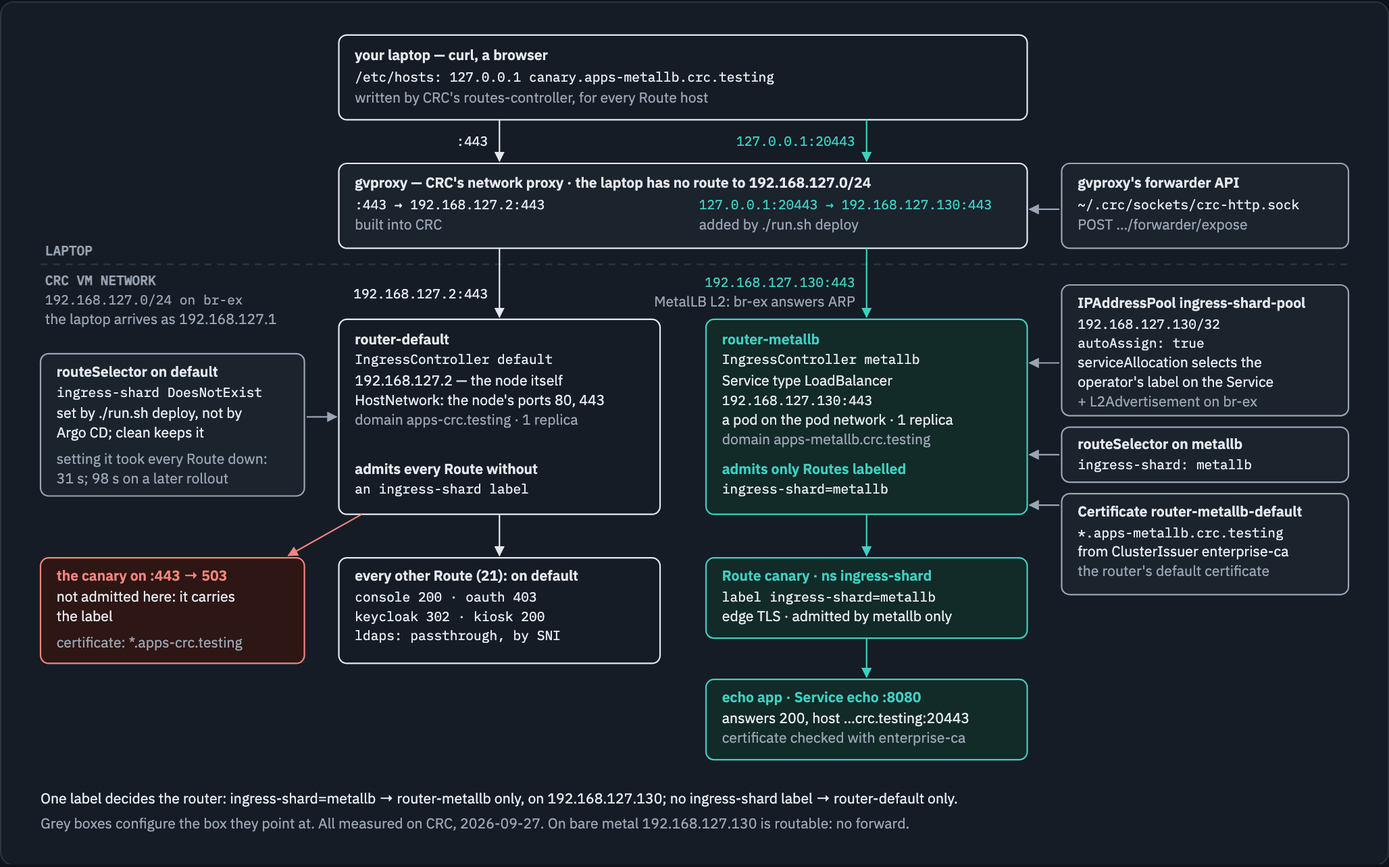
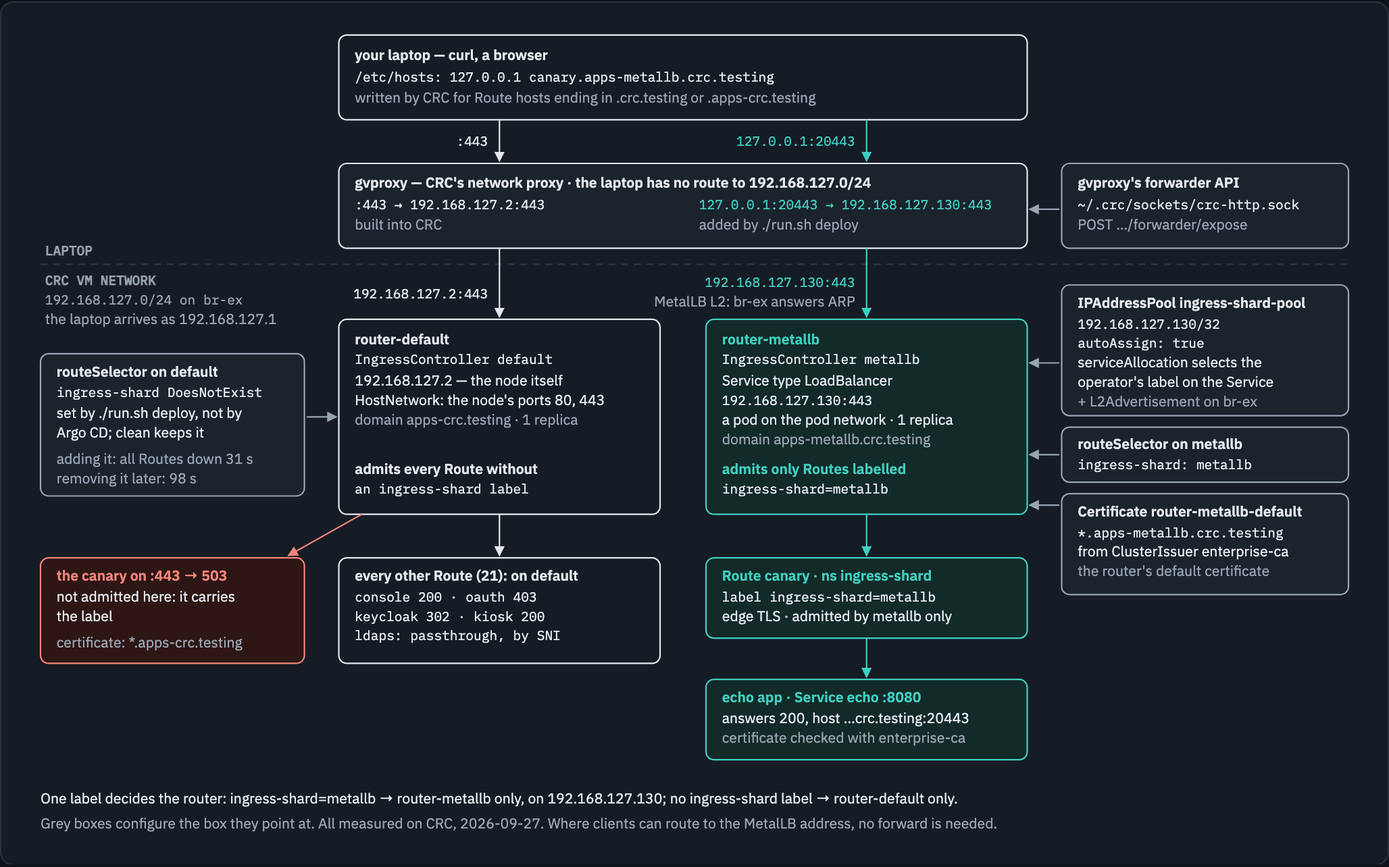
#17 review round 1: clean checks every step; forwards, preflight, verify contract
run.sh:
- clean: every delete and wait checked (checked/gone helpers); waits, bounded,
  for IngressController metallb, Service router-metallb and namespace
  ingress-shard to be gone; NotFound counts as gone; the final ok is reached
  only when every step succeeded (G-F1, C-F1)
- forward_target's error goes to stderr and every caller adds || exit 1: an
  unreadable forward list no longer reads as "no forward" (G-F2)
- forward_remove removes only this lab's forward (127.0.0.1:20443 ->
  192.168.127.130:443); another target is reported and left, exit 1 (C-F4)
- default_exclude refuses, naming them, while any Route carries ingress-shard;
  the exact-selector early return stays first (C-F2)
- deploy runs ns_ensure before the canary apply (G-F6)
- verify asserts the manifests' contract: pool autoAssign, serviceAllocation
  namespace and label selector, L2 pool and interface, the shard's domain,
  publishing strategy, routeSelector and default certificate (C-F5)
- one shard_target/shard_curl for deploy's canary_ready and verify: the CRC
  forward, or 192.168.127.130:443 directly without the socket (C-F9)

Manifests: namespace ingress-shard Prune=false (C-F3); the pool comment
describes label-based eligibility (C-F6); the IngressController comment no
longer says the default router is unchanged (G-F7).

README and figure: step 2 explains the selector its output shows, and what a
cluster that never ran this shows (G-F3/C-F8); troubleshooting no longer
[…]

Changed region(s): [[0.4047, 0.9346, 0.716, 0.9657], [0.3113, 0.0935, 0.5914, 0.1246], [0.0311, 0.5296, 0.1868, 0.5607]]

diff --git a/docs/diagrams/ingress-shard/source.html b/docs/diagrams/ingress-shard/source.html
@@ -68,14 +68,14 @@ a { color: var(--remote); }
     <h2>Which router serves which Route</h2>
     <figure>
       <div class="fig-scroll">
-<svg viewBox="0 0 1180 724" role="img" aria-label="The laptop reaches two routers through CRC&#x27;s network proxy, gvproxy, because it has no route to the CRC network 192.168.127.0/24. Port 443 is CRC&#x27;s own forward to 192.168.127.2, the node, where router-default of IngressController default listens on the node&#x27;s ports 80 and 443 (HostNetwork). 127.0.0.1:20443 is a forward that ./run.sh deploy adds through gvproxy&#x27;s forwarder API, to 192.168.127.130:443, which MetalLB announces at layer 2 on br-ex: the LoadBalancer Service of router-metallb, IngressController metallb, a pod on the pod network, domain apps-metallb.crc.testing. Beside each router, what configures it: on default, routeSelector ingress-shard DoesNotExist, set by ./run.sh deploy and not by Argo CD, kept by clean, and setting it took every Route down for 31 seconds, and for 98 seconds on a later rollout; on metallb, IPAddressPool ingress-shard-pool with the single address 192.168.127.130/32, autoAssign true, and a serviceAllocation that selects the label the ingress operator puts on the router&#x27;s Service, owning-ingresscontroller metallb, plus L2Advertisement ingress-shard-l2 on br-ex; routeSelector ingress-shard: metallb; and Certificate router-metallb-default for *.apps-metallb.crc.testing from ClusterIssuer enterprise-ca, the router&#x27;s default certificate. router-default admits every Route without an ingress-shard label: 21 Routes, among them console 200, oauth 403, keycloak 302, kiosk 200 and ldaps by SNI. The canary&#x27;s host sent to port 443 gets 503: the default router has not admitted it, and its certificate is for *.apps-crc.testing. router-metallb admits only Routes labelled ingress-shard=metallb: Route canary in namespace ingress-shard, edge TLS, admitted by metallb only, to the echo app, which answers 200. The laptop finds canary.apps-metallb.crc.testing as 127.0.0.1 in /etc/hosts, written by CRC&#x27;s routes-controller. All measured on CRC on 2026-09-27.">
+<svg viewBox="0 0 1180 724" role="img" aria-label="The laptop reaches two routers through CRC&#x27;s network proxy, gvproxy, because it has no route to the CRC network 192.168.127.0/24. Port 443 is CRC&#x27;s own forward to 192.168.127.2, the node, where router-default of IngressController default listens on the node&#x27;s ports 80 and 443 (HostNetwork). 127.0.0.1:20443 is a forward that ./run.sh deploy adds through gvproxy&#x27;s forwarder API, to 192.168.127.130:443, which MetalLB announces at layer 2 on br-ex: the LoadBalancer Service of router-metallb, IngressController metallb, a pod on the pod network, domain apps-metallb.crc.testing. Beside each router, what configures it: on default, routeSelector ingress-shard DoesNotExist, set by ./run.sh deploy and not by Argo CD, kept by clean, and adding it took every Route down for 31 seconds, removing it later for 98 seconds; on metallb, IPAddressPool ingress-shard-pool with the single address 192.168.127.130/32, autoAssign true, and a serviceAllocation that selects, by label, LoadBalancer Services in openshift-ingress carrying the label the ingress operator puts on the router&#x27;s Service, owning-ingresscontroller metallb, plus L2Advertisement ingress-shard-l2 on br-ex; routeSelector ingress-shard: metallb; and Certificate router-metallb-default for *.apps-metallb.crc.testing from ClusterIssuer enterprise-ca, the router&#x27;s default certificate. router-default admits every Route without an ingress-shard label: 21 Routes, among them console 200, oauth 403, keycloak 302, kiosk 200 and ldaps by SNI. The canary&#x27;s host sent to port 443 gets 503: the default router has not admitted it, and its certificate is for *.apps-crc.testing. router-metallb admits only Routes labelled ingress-shard=metallb: Route canary in namespace ingress-shard, edge TLS, admitted by metallb only, to the echo app, which answers 200. The laptop finds canary.apps-metallb.crc.testing as 127.0.0.1 in /etc/hosts, written by CRC&#x27;s routes-controller for Route hosts ending in .crc.testing or .apps-crc.testing. All measured on CRC on 2026-09-27.">
   <defs><marker id="s1" viewBox="0 0 10 10" refX="9" refY="5" markerWidth="7" markerHeight="7" orient="auto-start-reverse"><path d="M0,0 L10,5 L0,10 z" fill="currentColor"/></marker><marker id="s1t" viewBox="0 0 10 10" refX="9" refY="5" markerWidth="7" markerHeight="7" orient="auto-start-reverse"><path d="M0,0 L10,5 L0,10 z" fill="var(--remote)"/></marker><marker id="s1g" viewBox="0 0 10 10" refX="9" refY="5" markerWidth="7" markerHeight="7" orient="auto-start-reverse"><path d="M0,0 L10,5 L0,10 z" fill="var(--gap)"/></marker><marker id="s1n" viewBox="0 0 10 10" refX="9" refY="5" markerWidth="7" markerHeight="7" orient="auto-start-reverse"><path d="M0,0 L10,5 L0,10 z" fill="var(--none)"/></marker></defs>
   <g font-family="IBM Plex Sans, sans-serif" font-size="12.5" fill="currentColor">
 <!-- the laptop -->
 <rect x="280" y="14" width="600" height="74" rx="7" fill="none" stroke="currentColor" stroke-width="1.3"/>
 <text x="294" y="36" font-weight="600">your laptop — curl, a browser</text>
 <text x="294" y="55" font-family="IBM Plex Mono, monospace" font-size="11.5">/etc/hosts: 127.0.0.1 canary.apps-metallb.crc.testing</text>
-<text x="294" y="73" fill="var(--muted)">written by CRC&#x27;s routes-controller, for every Route host</text>
+<text x="294" y="73" fill="var(--muted)">written by CRC for Route hosts ending in .crc.testing or .apps-crc.testing</text>
 <line x1="420" y1="88" x2="420" y2="124" stroke="currentColor" stroke-width="1.3" marker-end="url(#s1)"/>
 <text x="410" y="111" text-anchor="end" font-family="IBM Plex Mono, monospace" font-size="11.5">:443</text>
 <line x1="740" y1="88" x2="740" y2="124" stroke="var(--remote)" stroke-width="1.3" marker-end="url(#s1t)"/>
@@ -118,8 +118,8 @@ a { color: var(--remote); }
 <text x="34" y="330" font-family="IBM Plex Mono, monospace" font-size="11.5">ingress-shard DoesNotExist</text>
 <text x="34" y="348">set by ./run.sh deploy, not by</text>
 <text x="34" y="365">Argo CD; clean keeps it</text>
-<text x="34" y="388" fill="var(--muted)">setting it took every Route down:</text>
-<text x="34" y="405" fill="var(--muted)">31 s; 98 s on a later rollout</text>
+<text x="34" y="388" fill="var(--muted)">adding it: all Routes down 31 s</text>
+<text x="34" y="405" fill="var(--muted)">removing it later: 98 s</text>
 <line x1="252" y1="347" x2="278" y2="347" stroke="var(--none)" stroke-width="1.3" marker-end="url(#s1n)"/>
 <!-- router-metallb -->
 <rect x="600" y="262" width="280" height="170" rx="7" fill="var(--remote-wash)" stroke="var(--remote)" stroke-width="1.3"/>
@@ -176,7 +176,7 @@ a { color: var(--remote); }
 <text x="614" y="631" fill="var(--muted)">certificate checked with enterprise-ca</text>
 <!-- takeaway -->
 <text x="20" y="684">One label decides the router: ingress-shard=metallb → router-metallb only, on 192.168.127.130; no ingress-shard label → router-default only.</text>
-<text x="20" y="706" fill="var(--muted)">Grey boxes configure the box they point at. All measured on CRC, 2026-09-27. On bare metal 192.168.127.130 is routable: no forward.</text>
+<text x="20" y="706" fill="var(--muted)">Grey boxes configure the box they point at. All measured on CRC, 2026-09-27. Where clients can route to the MetalLB address, no forward is needed.</text>
   </g>
 </svg>
       </div>

diff --git a/00-prerequisites/ingress-shard/README.md b/00-prerequisites/ingress-shard/README.md
@@ -1,7 +1,8 @@
 # A second router on a MetalLB address — an IngressController shard
 
 OpenShift's own router, the **default IngressController**, carries every Route on
-this cluster: the console, OAuth, Keycloak, the kiosk. On CRC it listens on the
+this cluster except the ones this page moves to the shard: the console, OAuth,
+Keycloak, the kiosk. On CRC it listens on the
 node's own ports 80 and 443 (`HostNetwork`).
 
 This page adds a **second router**, a *shard*, which:
@@ -27,8 +28,8 @@ CRC's network proxy.
 - how a router published as a `LoadBalancerService` gets a MetalLB address. The
   address is chosen by a pool, so nothing has to be added to a Service the
   ingress operator owns;
-- why a laptop running CRC needs a port forward to reach that address, and why
-  bare metal does not.
+- why a laptop running CRC needs a port forward to reach that address, and why a
+  client that can route to the address does not.
 
 ## Before you start
 
@@ -37,7 +38,7 @@ CRC's network proxy.
 - You are a cluster admin. This adds an `IngressController`, a MetalLB pool and
   a certificate in `openshift-ingress`, and changes the **default**
   IngressController (step 5).
-- **Step 5 takes every Route down for half a minute to a minute and a half** on a
+- **Step 5 takes every Route down for about half a minute** (31 s, measured) on a
   single-node cluster: the console, OAuth logins, Keycloak, every app. Pick a
   moment when nobody depends on them. `./run.sh deploy` does the same the first
   time. The clean-up does not undo step 5, on purpose ([Clean up](#clean-up)
@@ -51,7 +52,7 @@ CRC's network proxy.
 ## The picture
 
 <!-- markdownlint-disable MD033 -->
-<img alt="The laptop reaches two routers through CRC&#x27;s network proxy, gvproxy, because it has no route to the CRC network 192.168.127.0/24. Port 443 is CRC&#x27;s own forward to 192.168.127.2, the node, where router-default of IngressController default listens on the node&#x27;s ports 80 and 443 (HostNetwork). 127.0.0.1:20443 is a forward that ./run.sh deploy adds through gvproxy&#x27;s forwarder API, to 192.168.127.130:443, which MetalLB announces at layer 2 on br-ex: the LoadBalancer Service of router-metallb, IngressController metallb, a pod on the pod network, domain apps-metallb.crc.testing. Beside each router, what configures it: on default, routeSelector ingress-shard DoesNotExist, set by ./run.sh deploy and not by Argo CD, kept by clean, and setting it took every Route down for 31 seconds, and for 98 seconds on a later rollout; on metallb, IPAddressPool ingress-shard-pool with the single address 192.168.127.130/32, autoAssign true, and a serviceAllocation that selects the label the ingress operator puts on the router&#x27;s Service, owning-ingresscontroller metallb, plus L2Advertisement ingress-shard-l2 on br-ex; routeSelector ingress-shard: metallb; and Certificate router-metallb-default for *.apps-metallb.crc.testing from ClusterIssuer enterprise-ca, the router&#x27;s default certificate. router-default admits every Route without an ingress-shard label: 21 Routes, among them console 200, oauth 403, keycloak 302, kiosk 200 and ldaps by SNI. The canary&#x27;s host sent to port 443 gets 503: the default router has not admitted it, and its certificate is for *.apps-crc.testing. router-metallb admits only Routes labelled ingress-shard=metallb: Route canary in namespace ingress-shard, edge TLS, admitted by metallb only, to the echo app, which answers 200. The laptop finds canary.apps-metallb.crc.testing as 127.0.0.1 in /etc/hosts, written by CRC&#x27;s routes-controller. All measured on CRC on 2026-09-27." src="../../docs/diagrams/ingress-shard/shard.light.png">
+<img alt="The laptop reaches two routers through CRC&#x27;s network proxy, gvproxy, because it has no route to the CRC network 192.168.127.0/24. Port 443 is CRC&#x27;s own forward to 192.168.127.2, the node, where router-default of IngressController default listens on the node&#x27;s ports 80 and 443 (HostNetwork). 127.0.0.1:20443 is a forward that ./run.sh deploy adds through gvproxy&#x27;s forwarder API, to 192.168.127.130:443, which MetalLB announces at layer 2 on br-ex: the LoadBalancer Service of router-metallb, IngressController metallb, a pod on the pod network, domain apps-metallb.crc.testing. Beside each router, what configures it: on default, routeSelector ingress-shard DoesNotExist, set by ./run.sh deploy and not by Argo CD, kept by clean, and adding it took every Route down for 31 seconds, removing it later for 98 seconds; on metallb, IPAddressPool ingress-shard-pool with the single address 192.168.127.130/32, autoAssign true, and a serviceAllocation that selects, by label, LoadBalancer Services in openshift-ingress carrying the label the ingress operator puts on the router&#x27;s Service, owning-ingresscontroller metallb, plus L2Advertisement ingress-shard-l2 on br-ex; routeSelector ingress-shard: metallb; and Certificate router-metallb-default for *.apps-metallb.crc.testing from ClusterIssuer enterprise-ca, the router&#x27;s default certificate. router-default admits every Route without an ingress-shard label: 21 Routes, among them console 200, oauth 403, keycloak 302, kiosk 200 and ldaps by SNI. The canary&#x27;s host sent to port 443 gets 503: the default router has not admitted it, and its certificate is for *.apps-crc.testing. router-metallb admits only Routes labelled ingress-shard=metallb: Route canary in namespace ingress-shard, edge TLS, admitted by metallb only, to the echo app, which answers 200. The laptop finds canary.apps-metallb.crc.testing as 127.0.0.1 in /etc/hosts, written by CRC&#x27;s routes-controller for Route hosts ending in .crc.testing or .apps-crc.testing. All measured on CRC on 2026-09-27." src="../../docs/diagrams/ingress-shard/shard.light.png">
 <!-- markdownlint-enable MD033 -->
 
 *The laptop reaches the default router on CRC's `:443` and the shard on
@@ -97,11 +98,19 @@ replicas=1  hostNetwork=true  strategy={"maxSurge":0,"maxUnavailable":"25%"}
 
 - The default router listens on the node's own ports (`HostNetwork`), for
   `apps-crc.testing`.
-- It has **no selector**, so it admits every Route in the cluster, whatever the
-  host's domain. Red Hat's docs: "there might be routes that are admitted to your
-  new Ingress shard that are also admitted by the default Ingress Controller.
-  This is because the default Ingress Controller has no selectors and admits all
-  routes by default" (4.22, "Sharding the default Ingress Controller").
+- It already has a `routeSelector`, `ingress-shard DoesNotExist`: this page
+  was walked on a cluster where step 5 had run before, and the clean-up leaves
+  that field in place ([Clean up](#clean-up) says why). The default router
+  admits every Route **without** an `ingress-shard` label, whatever the host's
+  domain.
+- On a cluster where this page never ran, the same command prints
+  `routeSelector=` with nothing after it: **no selector**, so the default router
+  admits every Route. Red Hat's docs: "there might be routes that are admitted to
+  your new Ingress shard that are also admitted by the default Ingress
+  Controller. This is because the default Ingress Controller has no selectors and
+  admits all routes by default" (4.22, "Sharding the default Ingress
+  Controller"). Step 5 adds the selector there, and does nothing where it is
+  already this one.
 - It runs **one** pod, and a rolling update may not add a pod
   (`maxSurge: 0`). Step 5 is where that matters.
 
@@ -119,7 +128,14 @@ defines a pool that **selects the Service**:
 | `addresses` | `192.168.127.130/32` | one address, so the shard always gets the same one. It lies outside `mongot-pool` (MetalLB refuses overlapping pools), and it is not `.1`, `.2` or `.254`, which are gvproxy's gateway, the node and the host |
 | `serviceAllocation.namespaces` | `openshift-ingress` | where the operator puts router Services |
 | `serviceAllocation.serviceSelectors` | `ingresscontroller.operator.openshift.io/owning-ingresscontroller: metallb` | the label the operator itself puts on the shard's Service (`load_balancer_service.go`, `desiredLoadBalancerService`) |
-| `autoAssign` | `true` | MetalLB tries a pool that selects a Service only when the pool may auto-assign, and never gives a pool with `serviceAllocation` to a Service it does not select (`allocator.go`, `pinnedPoolsForService`, `Allocate`) |
+| `autoAssign` | `true` | MetalLB tries a pool that selects a Service only when the pool may auto-assign, and never auto-assigns from a pool with `serviceAllocation` to a Service it does not select (`allocator.go`, `pinnedPoolsForService`, `Allocate`) |
+
+The selection is by **label**, not by name. Any `LoadBalancer` Service in
+`openshift-ingress` with that label is eligible for the address; `router-metallb`
+is the only one there (step 10), and only someone who may create Services in
+`openshift-ingress` could add another. A Service elsewhere that names the pool in
+a `metallb.io/address-pool` annotation is not checked against `serviceAllocation`
+either (`AllocateFromPool`); nothing on this cluster does that.
 
 `L2Advertisement ingress-shard-l2` advertises it on `br-ex`. `mongot-l2` names
 only `mongot-pool`, and stays as it is.
@@ -175,11 +191,13 @@ No resources found
 >   So the old pod must stop, and free the ports, before the new one can bind
 >   them. Until the new pod is ready, **no Route answers**: console, OAuth,
 >   Keycloak, every app.
-> - **Measured on CRC** (2026-09-27, probing every second): console and Keycloak
->   answered `000` from 16:29:52 to 16:30:23 UTC, about **31 seconds**. A later
->   rollout of the same router was down **98 seconds** (16:38:08–16:39:46): the
->   new pod waited 47 s to be scheduled (`FailedScheduling … didn't have free
->   ports`) until the old one let go of 80 and 443.
+> - **Measured on CRC** (2026-09-27, probing every second): adding the selector
+>   took console and Keycloak to `000` from 16:29:52 to 16:30:23 UTC, about
+>   **31 seconds**. **Removing** it later (the incident in [Clean up](#clean-up))
+>   rolled the same router out again, and it was down **98 seconds**
+>   (16:38:08–16:39:46): the new pod waited 47 s to be scheduled
+>   (`FailedScheduling … didn't have free ports`) until the old one let go of 80
+>   and 443. That removal is one reason the clean-up leaves the field.
 > - **It happens once.** The clean-up leaves the selector in place (below).
 
 The selector, and a wait for the new router pod. The operator passes the
@@ -205,8 +223,13 @@ ROUTE_LABELS=!ingress-shard  generation=4
   Controller". They also warn: "You must keep all of OpenShift Container
   Platform's administration routes on the same Ingress Controller". A selector
   that excludes only one label, which none of those Routes carry, does that.
-- Patching again with the same selector changes nothing: measured, a second
-  `./run.sh deploy` left `router-default` at generation 2, and nothing restarted.
+- Patching again with the same selector rolls neither router and changes no
+  router generation: measured, a second `./run.sh deploy` left `router-default`
+  at generation 2, and later at 4 (after the incident in [Clean up](#clean-up)).
+  `./run.sh deploy` does not patch at all when the selector is already this one.
+- `./run.sh deploy` also refuses to add the selector while any Route already
+  carries an `ingress-shard` label, and names them: the selector would take
+  those Routes off the default router. The first command above is that check.
 
 ### Step 6 — the shard
 
@@ -290,10 +313,10 @@ $ curl -s --unix-socket ~/.crc/sockets/crc-http.sock http://crc/network/services
 (Once [#15](https://github.com/ephico2real2/envoy-tutorial/issues/15) is merged,
 this is `../../_shared/crc-forward.sh ensure 127.0.0.1:20443 192.168.127.130:443`.)
 
-**The name.** CRC's `routes-controller` pod in `openshift-ingress` writes every
-Route's host into the laptop's `/etc/hosts` as `127.0.0.1`, through CRC's admin
-helper. The helper accepts only hosts ending in `.crc.testing` or
-`.apps-crc.testing`, which is one reason for this domain. Measured: the canary's
+**The name.** CRC's `routes-controller` pod in `openshift-ingress` writes Route
+hosts into the laptop's `/etc/hosts` as `127.0.0.1`, through CRC's admin helper,
+for hosts ending in `.crc.testing` or `.apps-crc.testing`: the helper refuses
+any other. That is one reason for this domain. Measured: the canary's
 host appeared there, and a browser or `curl` finds it by name. Port `20443`
 takes it to the shard:
 
@@ -485,8 +508,8 @@ all checks passed
 
 | Here (CRC) | Production |
 |---|---|
-| a gvproxy forward from `127.0.0.1:20443` | none: the address is on a network the clients route to |
-| `/etc/hosts`, written by CRC for each Route | a DNS wildcard record, `*.apps-metallb.<domain>` → the shard's address |
+| a gvproxy forward from `127.0.0.1:20443` | where the clients can route to the MetalLB address, no forward is needed |
+| `/etc/hosts`, written by CRC for Route hosts ending in `.crc.testing` or `.apps-crc.testing` | a DNS wildcard record, `*.apps-metallb.<domain>` → the shard's address |
 | one shard address, one replica | more replicas on several nodes; MetalLB layer 2 moves the address to another node if one fails |
 | the default router's selector costs a ~31 s outage: one `HostNetwork` pod that must stop before its replacement can bind the ports | the default router runs a pod on each of several nodes, and the load balancer in front of them sends traffic to the ones still serving. Not measured here: this cluster has one node. The selector is still a change to the router that carries the console and OAuth, so it goes through that router's owner and a change window |
 
@@ -494,9 +517,10 @@ all checks passed
 
 | You see | Why | Fix |
 |---|---|---|
-| console, OAuth, every Route answers `000` or refuses connections for about half a minute | the default router is rolling out after a change to its IngressController: step 5, `./run.sh deploy` the first time, or the clean-up | wait: `oc rollout status deploy/router-default -n openshift-ingress` |
+| console, OAuth, every Route answers `000` or refuses connections for about half a minute | the default router is rolling out after a change to its IngressController: step 5, or `./run.sh deploy` the first time on a cluster that has no selector yet. `./run.sh clean` does not change the default router | wait: `oc rollout status deploy/router-default -n openshift-ingress` |
 | after someone removes the default router's `routeSelector`, every Route shows no `Admitted` status for minutes, `kube-apiserver` rolls out new revisions, and `oc get routes` fails with `the server doesn't have a resource type "routes"` | a missing selector is read as "select nothing" when the operator clears status ([Clean up](#clean-up)) | wait: the router re-admits every Route once its new pod runs, and the API servers settle (about four minutes, measured). Don't remove the field. To reset it, set an empty selector `{}`, which the same code reads as "every Route". That is from the source, not measured here |
 | `IngressController default already has routeSelector … - left alone` from `./run.sh deploy` | someone gave the default router a selector of their own; `run.sh` does not merge selectors | decide with whoever set it; step 5's selector must be combined with theirs by hand |
+| `not changing the default router: these Routes carry ingress-shard …` from `./run.sh deploy` | Routes already carry the label; the selector would take them off the default router | remove the label from each, or move them to the shard on purpose, then deploy again |
 | a Route that should be on the default router stops answering after step 5 | it carries an `ingress-shard` label | remove the label, or move the Route to the shard's domain on purpose |
 | `admission webhook "ipaddresspoolvalidationwebhook.metallb.io" denied the request: CIDR … overlaps with already defined CIDR` | the address is in another pool (measured with `.120`) | pick an address outside every pool |
 | `router-metallb` stays `<pending>`, the IngressController not `Available` | no pool gives it an address: a selecting pool with `autoAssign: false` is skipped (`allocator.go`, `pinnedPoolsForService`) | `autoAssign: true` on the selecting pool |
@@ -515,11 +539,11 @@ and no resources-finalizer.
 
 | What | Made by | Kept by | Why |
 |---|---|---|---|
-| pool and L2 advertisement, the certificate, `IngressController metallb`, namespace `ingress-shard`, Route `canary`, the echo app | `manifests/`, `../../_shared/echo-app.yaml` | Argo CD | manifests |
+| pool and L2 advertisement, the certificate, `IngressController metallb`, namespace `ingress-shard`, Route `canary`, the echo app | `manifests/`, `../../_shared/echo-app.yaml` | Argo CD | manifests. The namespace carries `argocd.argoproj.io/sync-options: Prune=false`, as module 16's `keycloak` does ([`argocd`](../../argocd/README.md)): were a later commit to drop or rename its document, automated prune would otherwise delete it and everything in it. `./run.sh clean` is the one way to remove it |
 | **the default router's `routeSelector`** (step 5) | `./run.sh deploy` | nobody: `run.sh` only | the default IngressController is the platform's, not this lab's. An Application that owned it could prune it, which would delete the router every Route depends on, and would put its own copy of the object back over any other change to it. `run.sh` adds the one field, only if the router has no selector yet; `clean` leaves it ([Clean up](#clean-up) says why). `./run.sh verify` checks that it is there |
 | Deployment and Service `router-metallb` | the ingress operator | the ingress operator | made from the IngressController |
 | the laptop's forward `127.0.0.1:20443 → 192.168.127.130:443` | `./run.sh deploy` | nobody: `run.sh` only | it lives in CRC's gvproxy, not in the cluster, and ends when the CRC VM stops. After `crc start`, run `./run.sh deploy` again |
-| `/etc/hosts` lines for the Route hosts | CRC's `routes-controller` | CRC | CRC's own |
+| `/etc/hosts` lines for Route hosts ending in `.crc.testing` or `.apps-crc.testing` | CRC's `routes-controller` | CRC | CRC's own |
 
 `./run.sh clean` pauses the Application before it deletes anything, and
 `./run.sh deploy` resumes it at its end. `./run.sh pause` and `./run.sh resume`
@@ -554,25 +578,35 @@ selector from step 5**.
 <!-- walkthrough: skip -->
 ```console
 $ ./run.sh pause
+$ curl -s --unix-socket ~/.crc/sockets/crc-http.sock http://crc/network/services/forwarder/all | python3 -c 'import json, sys; [print(f["local"], "->", f["remote"]) for f in json.load(sys.stdin) if f["local"] == "127.0.0.1:20443"]'
 $ curl -s --unix-socket ~/.crc/sockets/crc-http.sock -X POST -d '{"local":"127.0.0.1:20443","protocol":"tcp"}' -w '%{http_code}\n' http://crc/network/services/forwarder/unexpose
 $ oc delete -f manifests/40-canary.yaml --wait=false
-$ oc delete -f manifests/30-ingresscontroller.yaml
-$ oc wait svc/router-metallb -n openshift-ingress --for=delete --timeout=120s
+$ oc delete -f manifests/30-ingresscontroller.yaml --wait=false
+$ oc wait ingresscontroller/metallb -n openshift-ingress-operator --for=delete --timeout=180s
+$ oc wait svc/router-metallb -n openshift-ingress --for=delete --timeout=180s
 $ oc delete -f manifests/20-certificate.yaml
 $ oc delete secret router-metallb-default-cert -n openshift-ingress
 $ oc delete -f manifests/10-pool.yaml
+$ oc wait ns/ingress-shard --for=delete --timeout=180s
 $ rm -f enterprise-root-ca.pem
 ```
 
-`./run.sh clean` does all of this. The default router, `mongot-pool`,
+Remove the forward only when the first command shows it going to
+`192.168.127.130:443`: another forward of the same port is someone else's.
+`./run.sh clean` does all of this, checks every step, and stops at the first
+that fails, before it says the shard is gone. It removes the forward only when it
+is this lab's, and fails otherwise. The default router, `mongot-pool`,
 `mongot-l2` and CRC's own forwards are not touched, so there is no outage.
 
 ## The shortcut
 
 - `./run.sh deploy` does steps 3 to 8 and resumes Argo CD's Application if there
-  is one. It includes step 5's outage the first time; a second `deploy` leaves the
-  default router alone (measured).
+  is one. It includes step 5's outage the first time; a second `deploy` rolls
+  neither router and changes no router generation (measured).
 - `./run.sh verify` is step 12. It checks:
+  - the manifests' contract: the pool's `autoAssign` and `serviceAllocation`,
+    the L2 advertisement's pool and interface, and the shard's domain,
+    publishing strategy, `routeSelector` and default certificate;
   - the address and its pool;
   - the default router's selector;
   - which routers admit what: the canary on the shard alone, every other Route
@@ -580,7 +614,9 @@ $ rm -f enterprise-root-ca.pem
   - the laptop's way in;
   - `503` on `:443`;
   - the default router's Routes.
-- `./run.sh clean` is the clean-up, with the Application paused first. It leaves
+- `./run.sh clean` is the clean-up, with the Application paused first; every
+  step is checked, and it waits until the IngressController, the Service and
+  the namespace are gone. It leaves
   the default router's selector, so it causes no outage.
 
 ## References

diff --git a/argocd/README.md b/argocd/README.md
@@ -21,7 +21,7 @@ same pattern:
 
 | Application | Source | Keeps |
 |---|---|---|
-| [`ingress-shard`](ingress-shard.yaml) | `00-prerequisites/ingress-shard/manifests`, and `_shared/echo-app.yaml` into `ingress-shard` | pool `ingress-shard-pool` and `L2Advertisement ingress-shard-l2` in `metallb-system`; the shard's certificate in `openshift-ingress`; `IngressController metallb`; namespace `ingress-shard` with Route `canary` and the echo app |
+| [`ingress-shard`](ingress-shard.yaml) | `00-prerequisites/ingress-shard/manifests`, and `_shared/echo-app.yaml` into `ingress-shard` | pool `ingress-shard-pool` and `L2Advertisement ingress-shard-l2` in `metallb-system`; the shard's certificate in `openshift-ingress`; `IngressController metallb`; namespace `ingress-shard` (`Prune=false`, as `keycloak`) with Route `canary` and the echo app |
 
 The laptop's forward to the shard's address is not in the cluster, so it stays
 `run.sh`'s ([its Permanent lab](../00-prerequisites/ingress-shard/README.md#permanent-lab)).

diff --git a/00-prerequisites/README.md b/00-prerequisites/README.md
@@ -168,8 +168,9 @@ runs MetalLB's controller and a speaker on each node.
 - **Layer 2.** An `L2Advertisement` makes a node answer ARP for those addresses
   on one interface: here `br-ex`, the node's side of the CRC network
   `192.168.127.0/24`. Anything on that network reaches the address.
-- **Why CRC needs a forward.** On bare metal the clients are on that network, or
-  route to it, and the address simply works. Your laptop is not on it. CRC runs
+- **Why CRC needs a forward.** Where the clients are on that network, or can
+  route to it, the address simply works, and no forward is needed. Your laptop
+  is not on it, and does not route to it. CRC runs
   its VM behind its own network proxy, gvproxy, which forwards only a few laptop
   ports into it: `:80`, `:443`, the API server and ssh. So to reach a MetalLB
   address from the laptop, you ask gvproxy for one more forward, from a laptop
